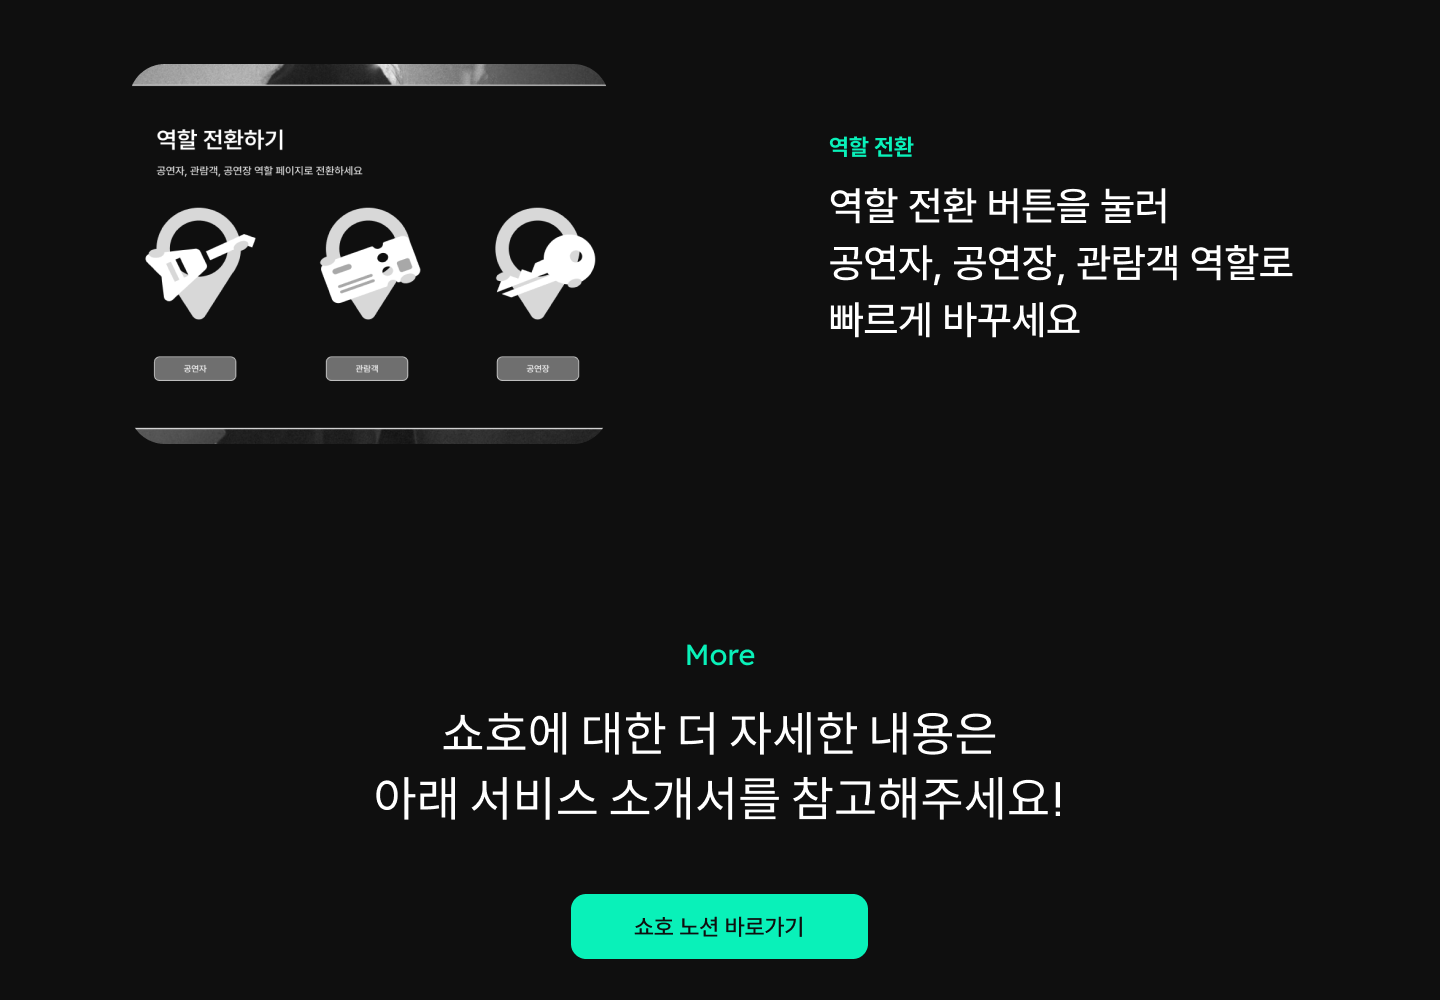
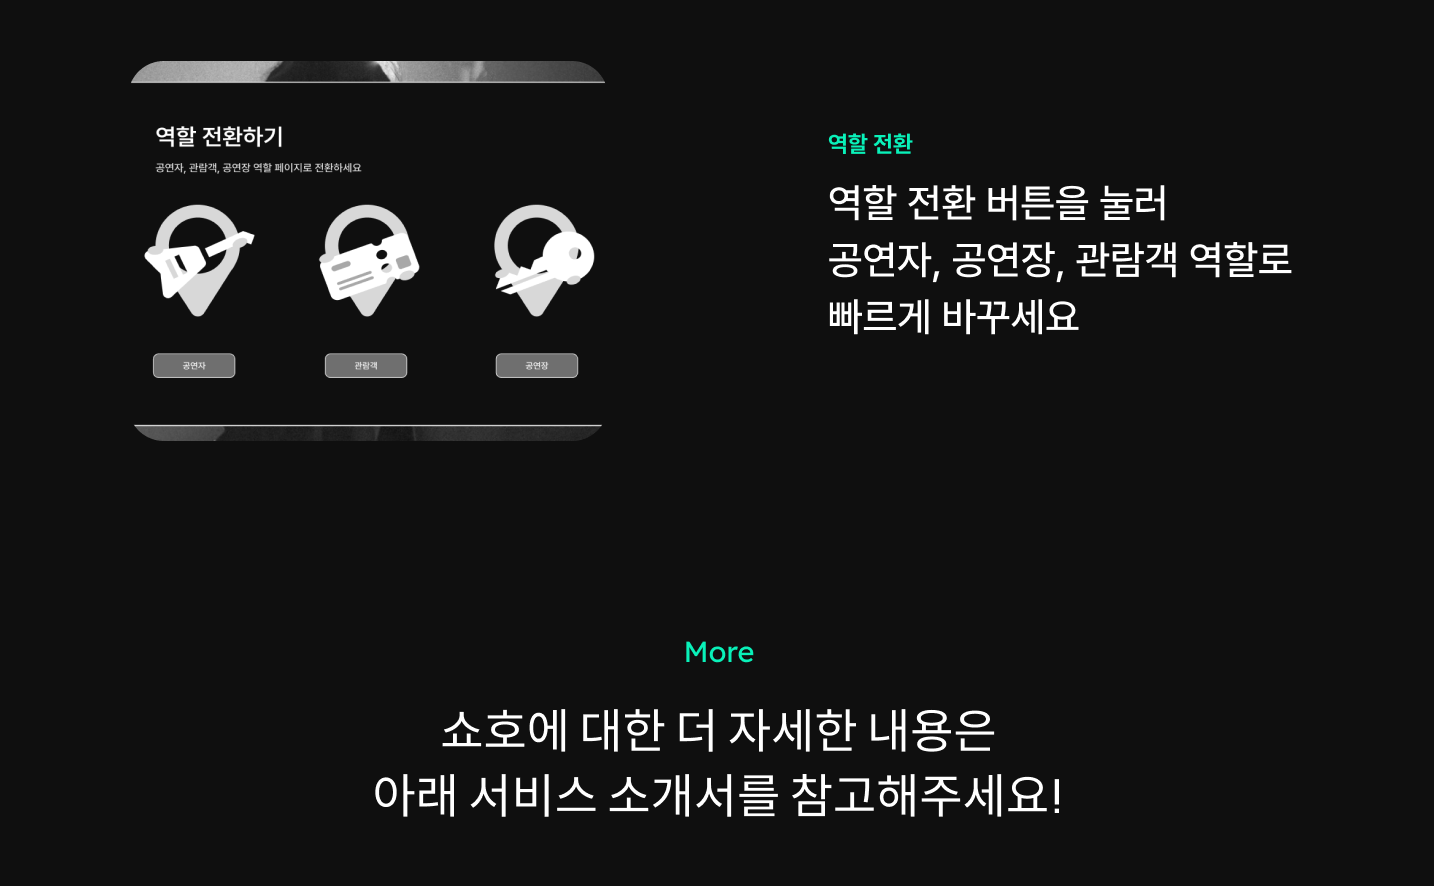
Feat: 노션 바로가기 추가

diff --git a/src/pages/Home_Performer.jsx b/src/pages/Home_Performer.jsx
@@ -3,6 +3,7 @@ import HomeImage from "../components/_test_/Home/HomeImage";
 import MainInfo from "../components/_test_/Home/mainInfo";
 import Footer from "../components/common/Footer";
 import "../styles/Jisu/home.css";
+import NotionNav from "../components/_test_/Home/NotionNav";
 
 const Home_Performer = () => {
   return (
@@ -10,8 +11,9 @@ const Home_Performer = () => {
       <Navbar_Performer />
       <Footer />
       <div className="HomeContent">
-      <HomeImage />
-      <MainInfo />
+        <HomeImage />
+        <MainInfo />
+        <NotionNav />
       </div>
     </div>
   );

diff --git a/src/pages/Home_Concert.jsx b/src/pages/Home_Concert.jsx
@@ -3,6 +3,7 @@ import HomeImage from "../components/_test_/Home/HomeImage";
 import MainInfo from "../components/_test_/Home/mainInfo";
 import Footer from "../components/common/Footer";
 import "../styles/Jisu/home.css";
+import NotionNav from "../components/_test_/Home/NotionNav";
 
 const Home_Concert = () => {
   return (
@@ -11,7 +12,8 @@ const Home_Concert = () => {
       <Footer />
       <div className="HomeContent">
       <HomeImage />
-      <MainInfo />
+        <MainInfo />
+        <NotionNav />
       </div>
     </div>
   );

diff --git a/src/pages/Home_Booking.jsx b/src/pages/Home_Booking.jsx
@@ -3,6 +3,7 @@ import HomeImage from "../components/_test_/Home/HomeImage";
 import MainInfo from "../components/_test_/Home/mainInfo";
 import Footer from "../components/common/Footer";
 import "../styles/Jisu/home.css";
+import NotionNav from "../components/_test_/Home/NotionNav";
 
 const Home_Booking = () => {
   return (
@@ -12,6 +13,8 @@ const Home_Booking = () => {
         <div className="HomeContent">
         <HomeImage />
         <MainInfo />
+        
+        <NotionNav />
       </div>
     </div>
   );

diff --git a/src/components/_test_/Home/NotionNav.jsx b/src/components/_test_/Home/NotionNav.jsx
@@ -1,0 +1,16 @@
+import "../../../styles/Jisu/NotionNav.css"
+
+const NotionNav = () => {
+    return (
+        <div
+            className="NotionNav"
+            onClick={() => {
+                window.open("https://factual-manuscript-fc2.notion.site/d55d39f5dcbf4645889fc8178a4132c2?v=8594d6374ecb40619e7225decdadf102", "_blank");
+            }}
+        >
+            쇼호 노션 바로가기
+        </div>
+    );
+}
+
+export default NotionNav;

diff --git a/src/styles/Jisu/NotionNav.css b/src/styles/Jisu/NotionNav.css
@@ -1,0 +1,20 @@
+.NotionNav {
+    margin: auto;
+    
+    width: 297px;
+    height: 65px;
+    background-color: #09F1B9;
+    border-radius: 15.2px;
+
+    font-family: Pretendard;
+    font-size: 23px;
+    font-weight: 500;
+    line-height: 32.57px;
+    text-align: center;
+
+    display: flex;
+    justify-content: center;
+    align-items: center;
+    
+    cursor: pointer;
+}
